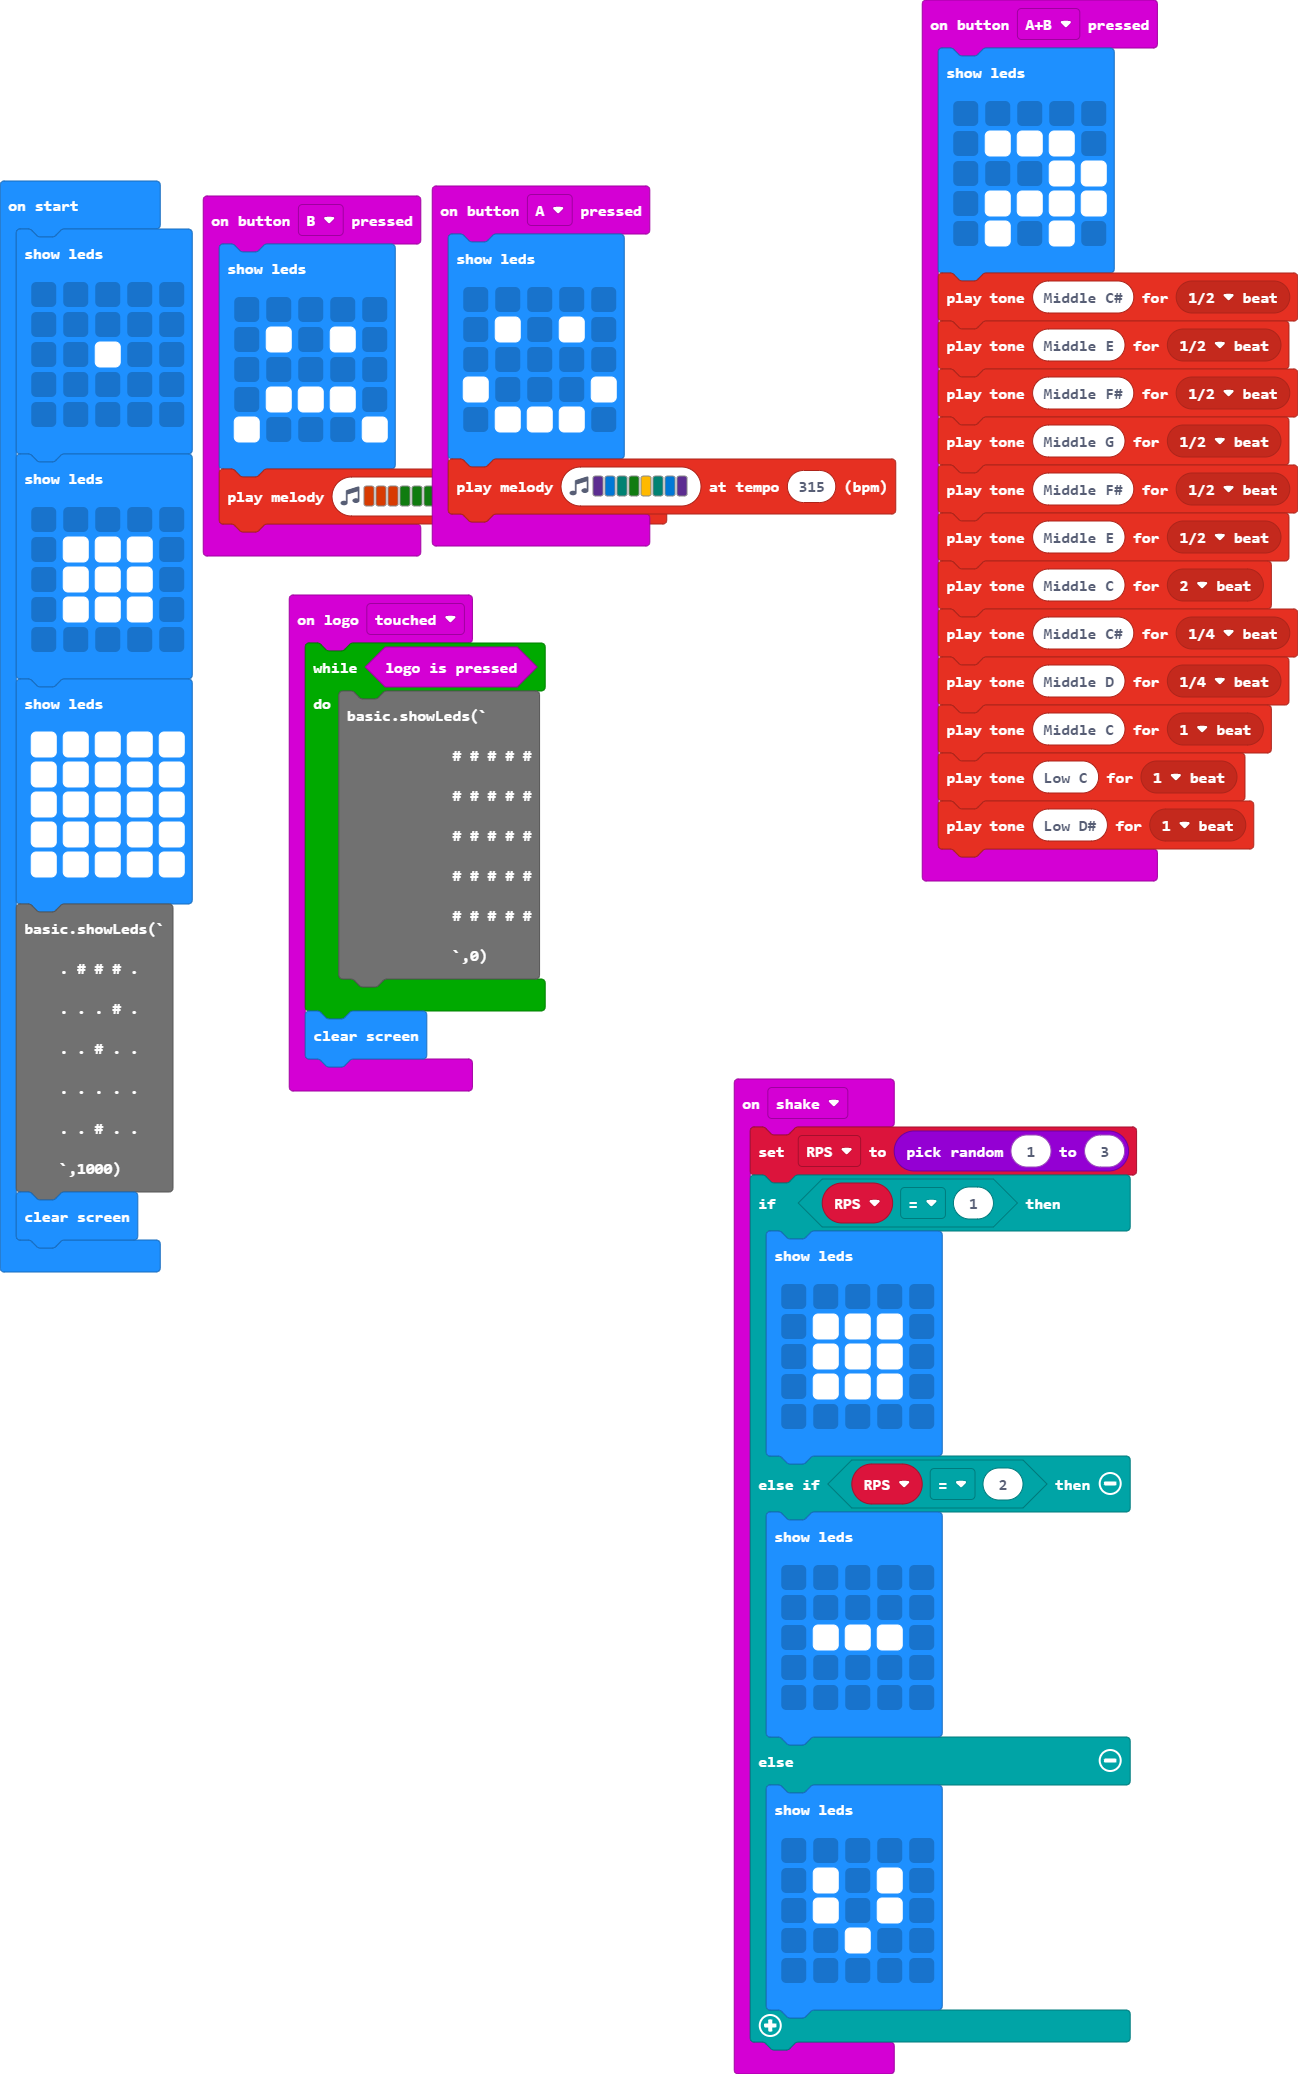
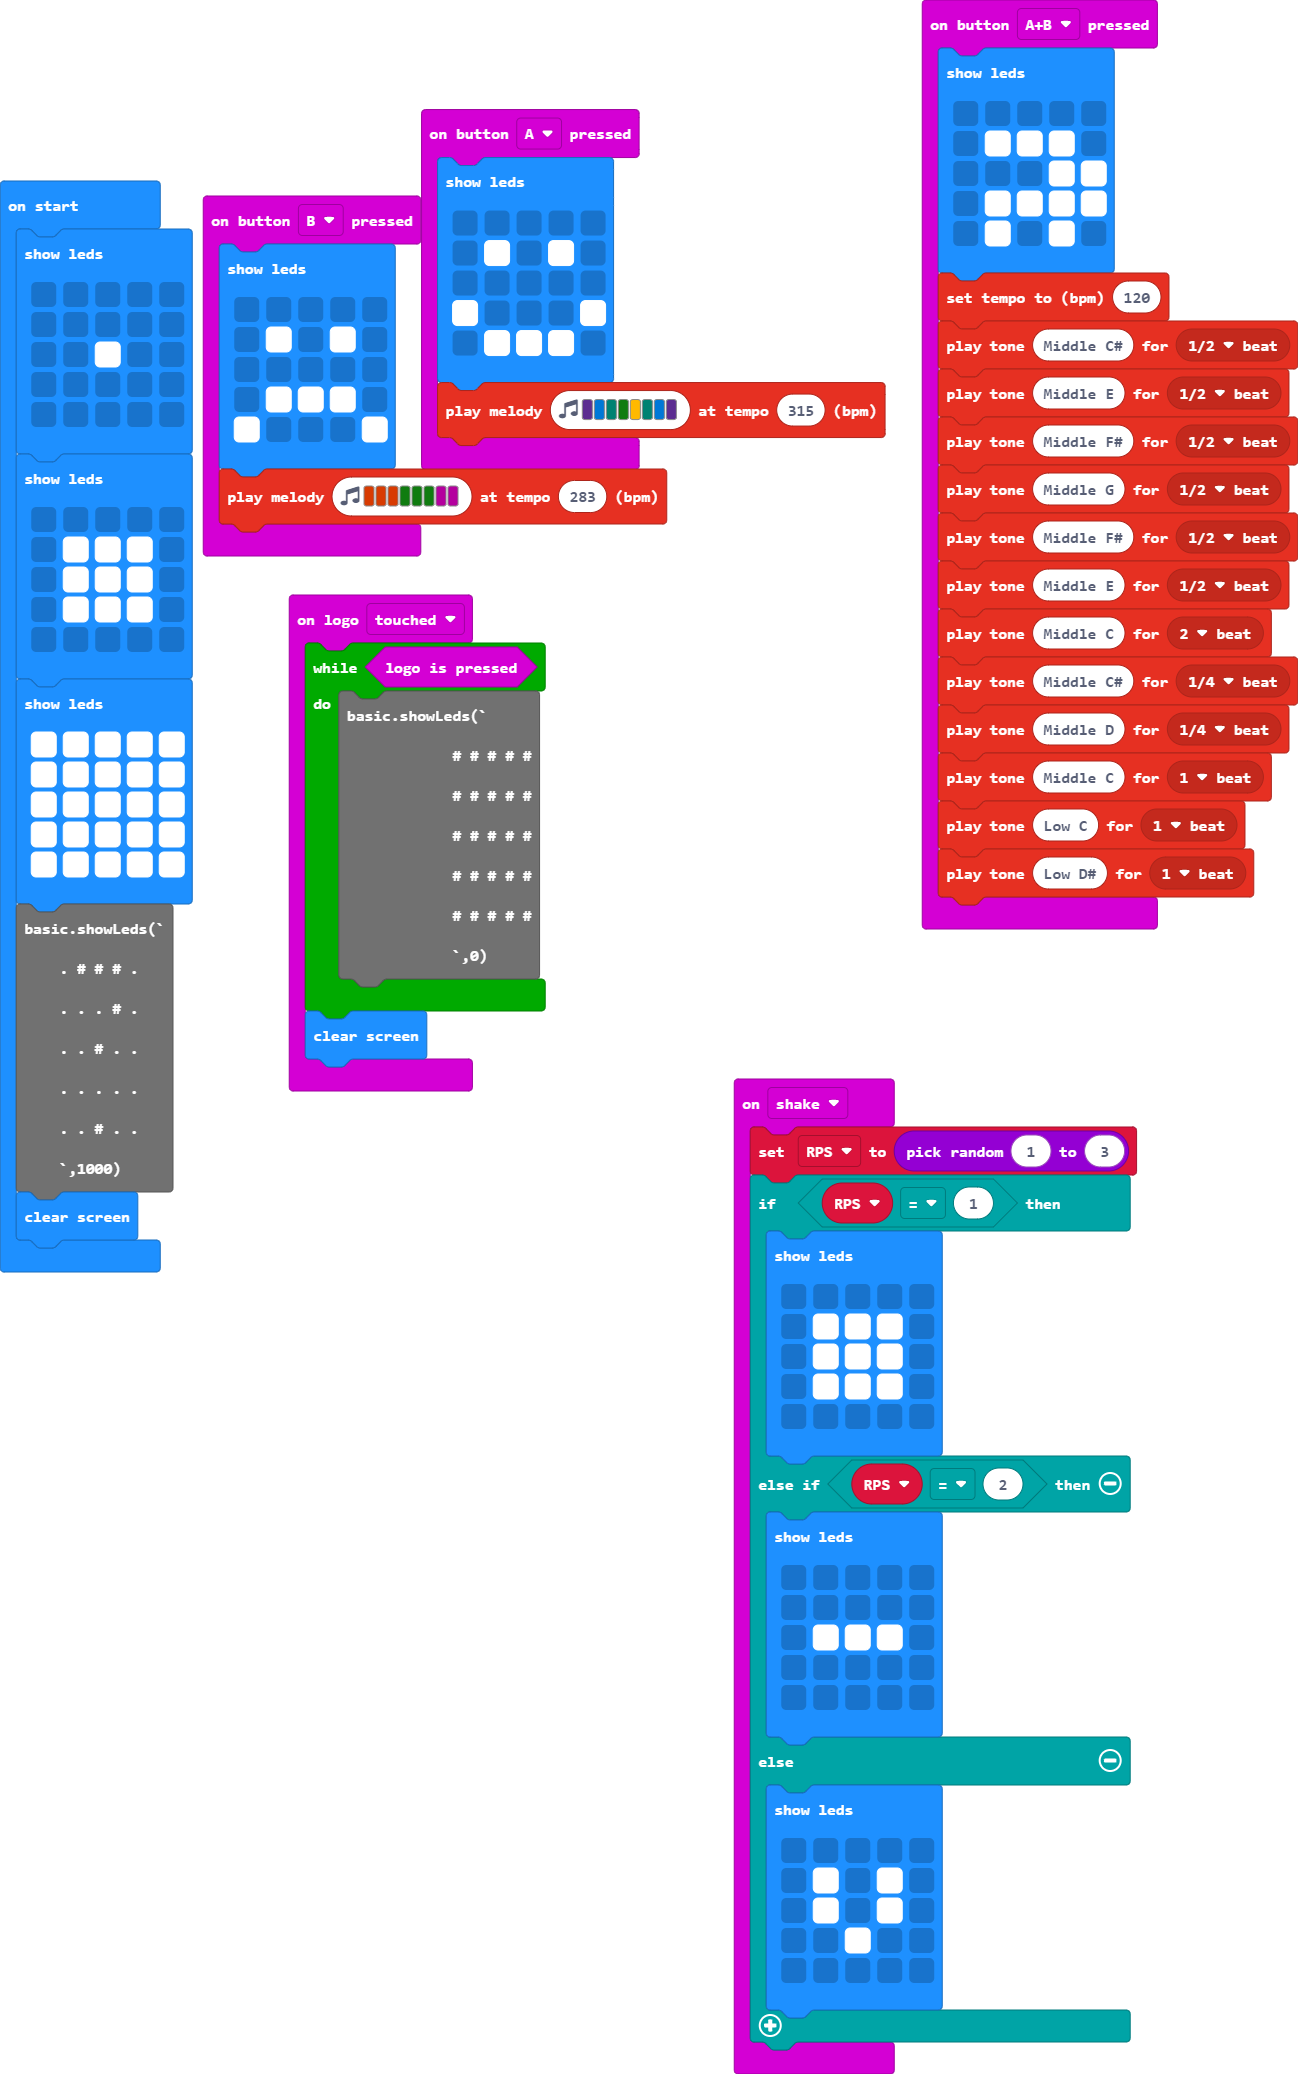
Update main.blocks, main.ts

Changed region(s): [[0.3082, 0.0309, 0.7088, 0.2777], [0.7088, 0.1234, 1.0, 0.4629]]

diff --git a/main.ts b/main.ts
@@ -16,6 +16,7 @@ input.onButtonPressed(Button.AB, function () {
         . # # # #
         . # . # .
         `)
+    music.setTempo(120)
     music.playTone(277, music.beat(BeatFraction.Half))
     music.playTone(330, music.beat(BeatFraction.Half))
     music.playTone(370, music.beat(BeatFraction.Half))
